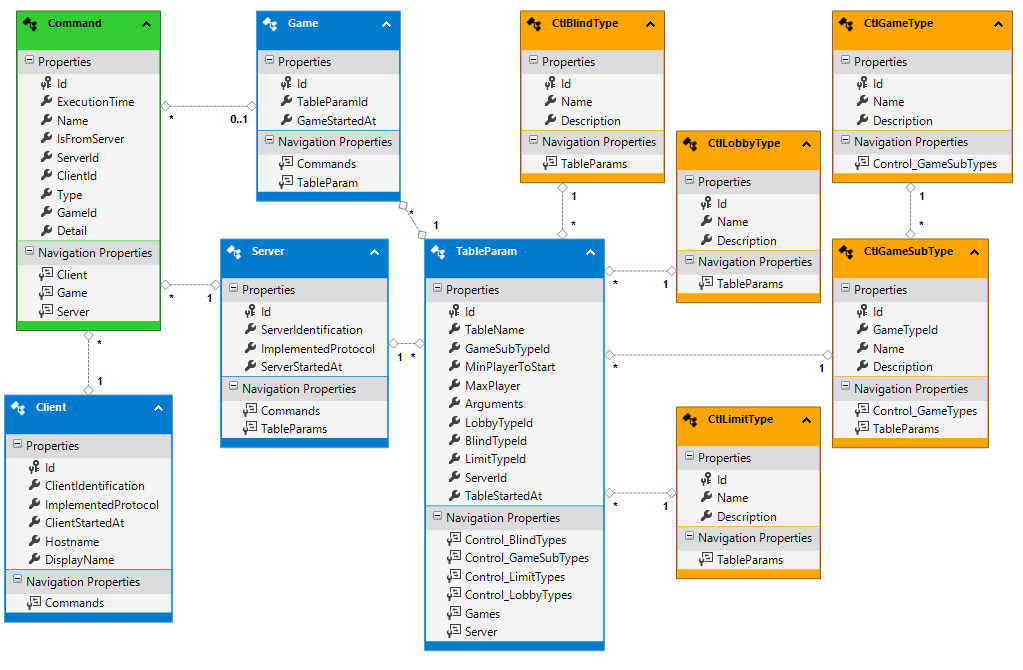
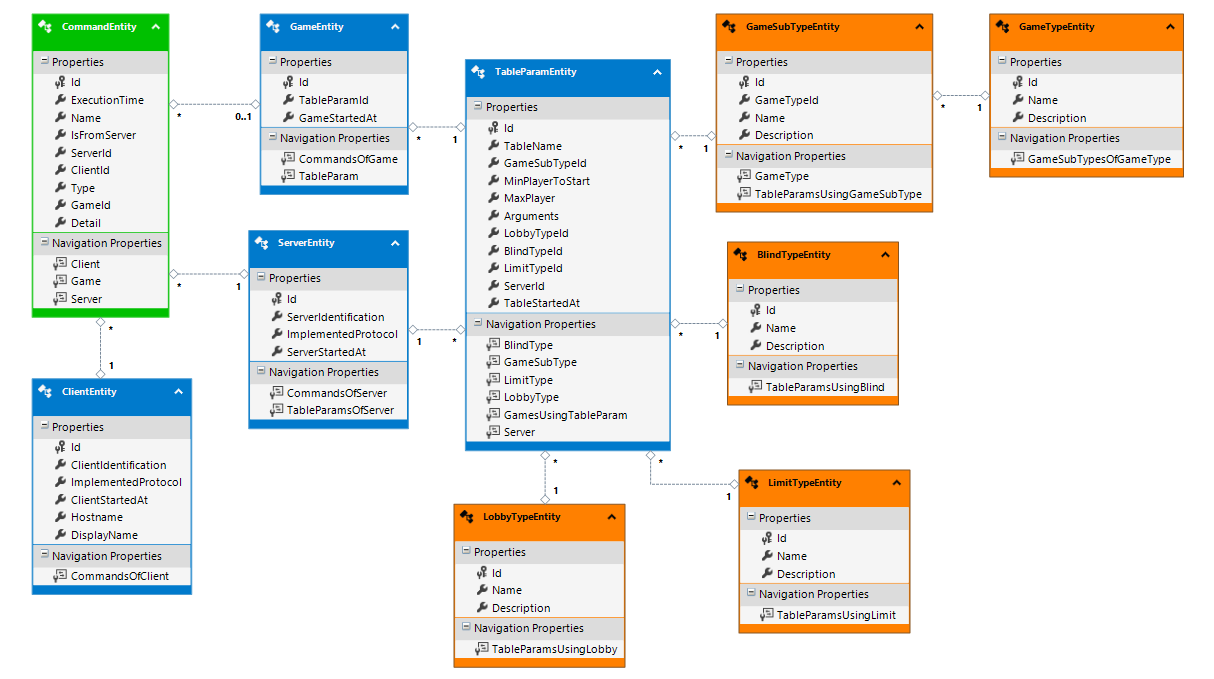
Adding Clients

diff --git a/C#/BluffinMuffin.Logger.DBAccess/Client.cs b/C#/BluffinMuffin.Logger.DBAccess/Client.cs
@@ -1,0 +1,50 @@
+using System;
+using System.Linq;
+using static System.String;
+
+namespace BluffinMuffin.Logger.DBAccess
+{
+    public class Client
+    {
+        internal int Id { get; private set; }
+
+        public string ClientIdentification { get; }
+        public string Hostname { get; }
+        public string DisplayName { get; private set; }
+        public Version ImplementedProtocol { get; }
+
+        public Client(string clientIdentification, Version implementedProtocol, string hostname)
+        {
+            ClientIdentification = clientIdentification;
+            ImplementedProtocol = implementedProtocol;
+            Hostname = hostname;
+        }
+
+        public void RegisterClient()
+        {
+            if (Id > 0)
+                return;
+
+            using (var context = Database.GetContext())
+            {
+                var c = new ClientEntity { ImplementedProtocol = ImplementedProtocol.ToString(3), ClientIdentification = ClientIdentification, ClientStartedAt = DateTime.Now, Hostname = Hostname};
+                context.AllClients.Add(c);
+                context.SaveChanges();
+                Id = c.Id;
+            }
+        }
+
+        public void Identify(string displayName)
+        {
+            if (Id == 0 || !IsNullOrEmpty(DisplayName))
+                return;
+
+            using (var context = Database.GetContext())
+            {
+                var c = context.AllClients.Single(x => x.Id == Id);
+                c.DisplayName = DisplayName = displayName;
+                context.SaveChanges();
+            }
+        }
+    }
+}

diff --git a/C#/BluffinMuffin.Logger.DBAccess/Server.cs b/C#/BluffinMuffin.Logger.DBAccess/Server.cs
@@ -4,7 +4,7 @@ namespace BluffinMuffin.Logger.DBAccess
 {
     public class Server
     {
-        private bool m_Registered;
+        internal int Id { get; private set; }
 
         public string ServerIdentification { get; }
         public Version ImplementedProtocol { get; }
@@ -17,15 +17,16 @@ namespace BluffinMuffin.Logger.DBAccess
 
         public void RegisterServer()
         {
-            if (m_Registered)
+            if (Id > 0)
                 return;
 
             using (var context = Database.GetContext())
             {
-                context.AllServers.Add(new ServerEntity {ImplementedProtocol = ImplementedProtocol.ToString(3), ServerIdentification = ServerIdentification, ServerStartedAt = DateTime.Now});
+                var s = new ServerEntity {ImplementedProtocol = ImplementedProtocol.ToString(3), ServerIdentification = ServerIdentification, ServerStartedAt = DateTime.Now};
+                context.AllServers.Add(s);
                 context.SaveChanges();
+                Id = s.Id;
             }
-            m_Registered = true;
         }
     }
 }

diff --git a/C#/BluffinMuffin.Logger.DBAccess.Demo/Program.cs b/C#/BluffinMuffin.Logger.DBAccess.Demo/Program.cs
@@ -12,7 +12,14 @@ namespace BluffinMuffin.Logger.DBAccess.Demo
         static void Main(string[] args)
         {
             Database.InitDatabase("turnsol.arvixe.com","BluffinMuffin_Logger_Test","1ti3gre2","BluffinMuffin_Logs_Test");
-            new Server("BluffinMuffin.Logger.DBAccess.Demo", new Version(3, 0, 0)).RegisterServer();
+
+            var server = new Server("BluffinMuffin.Logger.DBAccess.Demo", new Version(3, 0, 0));
+            server.RegisterServer();
+
+            var client = new Client("BluffinMuffin.Logger.DBAccess.Demo", new Version(3, 0, 0),"127.0.0.1");
+            client.RegisterClient();
+            client.Identify("SpongeBob");
+
         }
     }
 }
